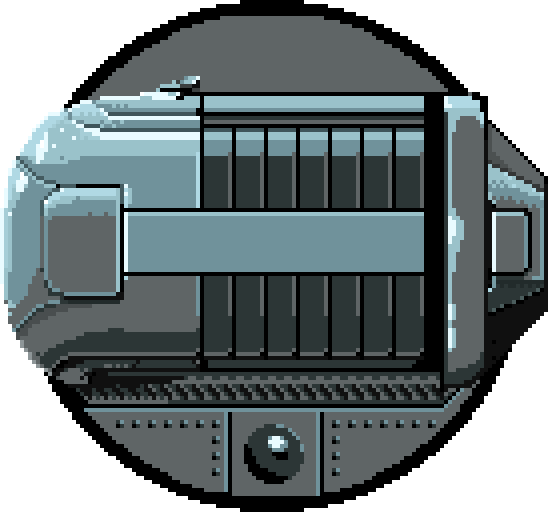
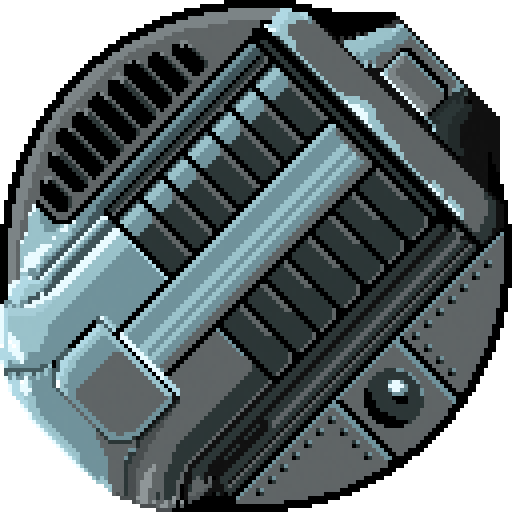
ui updated

diff --git a/index.html b/index.html
@@ -30,11 +30,6 @@
                     <img class="title--graphic" src="assets/da-title.png" alt="Title Title Screen">
                 </div>
 
-                <!-- UI Buttons -->
-                <button data-game-method="reinit" class="game-ui--button game-ui--button__top game-ui--button__left">♻</button>
-                <button data-modal-toggler="help" class="game-ui--button game-ui--button__bottom game-ui--button__left">❓</button>
-                <button data-modal-toggler="options" class="game-ui--button game-ui--button__bottom game-ui--button__right">⚙</button>
-
                 <!-- Help Modal -->
                 <div data-modal="help" class="modal--container">
                     <button class="modal--close"></button>
@@ -68,7 +63,7 @@
         </div>
 
         <!-- App UI Overlay -->
-        <div class="app-ui--overlay">
+        <div class="app-ui--overlay pointer-events-none">
             <div class="game-ui--container">
 
                 <!-- Score UI -->
@@ -78,24 +73,13 @@
                     <div class="game-ui--high-score"></div>
                 </div>
 
-                <!-- Buttons -->
-                <div class="ui" style="display: none;">
-                    <div class="canvas-ui">
-                        <div class="help-button button">❓</div>
-                        <div class="help-window modal" style="display: none">
-                            <div class="help-close button modal--close">close</div>
-                            Repair the turret, dodge flak!<br />
-                            Your score is how many wall segments you've repaired. <br />Press
-                            the letter that corresponds to the wall segment to move your player
-                            there.<br />Refresh to restart!<br />
-                            Thanks for playing! –Team Tunk
-                        </div>
-                        <div class="options-button">⚙</div>
-                        <div class="restart-button button">♻</div>
-                    </div>
-                </div>
+
 
             </div>
+            <!-- UI Buttons -->
+            <button data-game-method="reinit" class="game-ui--button game-ui--button__top game-ui--button__left">♻</button>
+            <button data-modal-toggler="help" class="game-ui--button game-ui--button__bottom game-ui--button__left">❓</button>
+            <button data-modal-toggler="options" class="game-ui--button game-ui--button__bottom game-ui--button__right">⚙</button>
         </div>
         <script src="https://cdnjs.cloudflare.com/ajax/libs/pixi.js/5.1.3/pixi.min.js"></script>
         <script src="js/keyboard-observer.js"></script>

diff --git a/js/cannon.js b/js/cannon.js
@@ -2,8 +2,8 @@ class Cannon {
     constructor(game) {
         this.game = game;
         this.container = new PIXI.Container();
-        this.cannonTargetX = 120;
-        this.cannonTargetY = -10;
+        this.cannonTargetX = 200;
+        this.cannonTargetY = -120;
         this.nextShot = 4;
         this.init();
     }
@@ -11,23 +11,23 @@ class Cannon {
     init() {
         this.game.graphics.cannonBarrelSmoke.anchor.set(0, 0.5);
         this.game.graphics.cannonBarrelSmoke.x = this.cannonTargetX + 0;
-        this.game.graphics.cannonBarrelSmoke.y = this.cannonTargetY - 0;
+        this.game.graphics.cannonBarrelSmoke.y = this.cannonTargetY - -120;
         this.game.graphics.cannonBarrelSmoke.rotation = 0 * Math.PI;
         this.game.graphics.cannonBarrelSmoke.scale.set(0.9);
         this.game.graphics.cannonBarrelSmoke.blendMode =
             PIXI.BLEND_MODES.OVERLAY;
 
         this.game.graphics.cannonSmoke.anchor.set(0, 0.5);
-        this.game.graphics.cannonSmoke.x = this.cannonTargetX + 370;
-        this.game.graphics.cannonSmoke.y = this.cannonTargetY - 10;
+        this.game.graphics.cannonSmoke.x = this.cannonTargetX + 250;
+        this.game.graphics.cannonSmoke.y = this.cannonTargetY + 105;
         this.game.graphics.cannonSmoke.rotation = 0 * Math.PI;
         this.game.graphics.cannonSmoke.scale.set(2);
         this.game.graphics.cannonSmoke.blendMode = PIXI.BLEND_MODES.OVERLAY;
         this.game.graphics.cannonSmoke.alpha = 0;
 
         this.game.graphics.cannonFire.anchor.set(0, 0.5);
-        this.game.graphics.cannonFire.x = this.cannonTargetX + 370;
-        this.game.graphics.cannonFire.y = this.cannonTargetY - 0;
+        this.game.graphics.cannonFire.x = this.cannonTargetX + 250;
+        this.game.graphics.cannonFire.y = this.cannonTargetY + 105;
         this.game.graphics.cannonFire.rotation = 0 * Math.PI;
         this.game.graphics.cannonFire.alpha = 0;
 
@@ -35,7 +35,7 @@ class Cannon {
         this.game.graphics.barrel.x = this.cannonTargetX;
         this.game.graphics.barrel.y = this.cannonTargetY;
         this.game.graphics.barrel.scale.set(0.85);
-        this.game.graphics.barrel.rotation = 0 * Math.PI;
+        this.game.graphics.barrel.rotation = 0.25 * Math.PI;
     }
 
     update(delta) {

diff --git a/css/game-ui.css b/css/game-ui.css
@@ -27,6 +27,7 @@
     margin: 0;
     background: transparent;
     border: 0;
+    pointer-events: all;
 }
 .game-ui--button:hover,
 .game-ui--button:focus {
@@ -89,19 +90,19 @@
 /* Button Positioning */
 .game-ui--button__top {
     position: absolute;
-    top: 1vmin;
+    top: calc(50% - 45vmin + 1vmin);
 }
 .game-ui--button__right {
     position: absolute;
-    right: 1vmin;
+    right: calc(50% - 45vmin + 1vmin);
 }
 .game-ui--button__bottom {
     position: absolute;
-    bottom: calc(1vmin + 3px);
+    bottom: calc(50% - 45vmin + 1vmin + 3px);
 }
 .game-ui--button__left {
     position: absolute;
-    left: 1vmin;
+    left: calc(50% - 45vmin + 1vmin);
 }
 
 .game-ui--score-wrapper {
@@ -109,8 +110,8 @@
     align-items: center;
     justify-content: center;
     position: absolute;
-    bottom: -2.3vmin;
-    height: 10vmin;
+    top: calc(50% + 45vmin - 15vmin + 0.65vmin);
+    height: 15vmin;
     left: 50%;
     transform: translateX(-50%) skewX(0) rotate(0deg);
     background-color: #101414;

diff --git a/css/style.css b/css/style.css
@@ -4,6 +4,7 @@
     font-family: Arial, 'Helvetica Neue', Helvetica, sans-serif;
     font-size: 24px;
     color: white;
+    box-sizing: border-box;
 }
 body,
 html {
@@ -21,6 +22,9 @@ body {
     background-size: cover;
     background-position: center;
 }
+.pointer-events-none {
+    pointer-events: none;
+}
 canvas,
 .canvas--scanlines {
     width: 90vmin;
@@ -33,6 +37,7 @@ canvas,
     border: 1vmin solid #000033;
     background-color: #ccc;
     box-shadow: 0 0 5vmin 3vmin rgba(238, 233, 213, 0.75);
+    pointer-events: none;
 }
 .canvas-ui {
     z-index: 100;
@@ -159,6 +164,7 @@ canvas,
     position: absolute;
     z-index: 900;
     background-color: transparent;
+    pointer-events: none;
 }
 .canvas--scanlines::after {
     pointer-events: none;

diff --git a/js/turret.js b/js/turret.js
@@ -15,6 +15,7 @@ class Turret {
         this.container.rotation = -0.25 * Math.PI;
 
         this.game.graphics.turretExterior.anchor.set(0.5);
+        this.game.graphics.turretExterior.rotation = 0.25 * Math.PI;
 
         this.game.graphics.turretFloor.anchor.set(0.5);
         this.game.graphics.turretFloor.rotation = 0.25 * Math.PI;
@@ -22,7 +23,6 @@ class Turret {
 
         this.game.graphics.turretCeiling.x = this.game.app.renderer.width / 2;
         this.game.graphics.turretCeiling.y = this.game.app.renderer.height / 2;
-        this.game.graphics.turretCeiling.rotation = -0.25 * Math.PI;
         this.game.graphics.turretCeiling.anchor.set(0.5);
         this.game.graphics.turretCeiling.alpha = 1;
     }

diff --git a/css/modal.css b/css/modal.css
@@ -7,8 +7,8 @@
     z-index: 10;
     top: 0;
     left: 0;
-    right: 0;
-    bottom: 0;
+    width: 90vmin;
+    height: 90vmin;
     border: 1vmin solid rgb(0, 0, 0);
     border-radius: 2vmin;
     margin: -1vmin;
@@ -16,7 +16,7 @@
     background-blend-mode: color;
     justify-content: center;
     align-items: center;
-    padding: 2vmin;
+    padding: 12vmin;
 }
 .modal--container__visible {
     display: flex;
@@ -45,8 +45,8 @@
     justify-content: center;
     align-items: center;
     line-height: 0;
-    top: 1vmin;
-    right: 1vmin;
+    top: 12vmin;
+    right: 12vmin;
     font-size: 8vmin;
     width: 6vmin;
     height: 6vmin;

diff --git a/css/app-ui.css b/css/app-ui.css
@@ -2,12 +2,18 @@
     pointer-events: none;
     content: '';
     display: block;
-    background-image: url('/assets/overlay-console.png');
+    background-image: url('/assets/overlay-console-vertical.png');
     background-size: cover;
     background-position: center;
     height: 100%;
     z-index: 1000;
     position: relative;
+    pointer-events: none;
+}
+@media (min-aspect-ratio: 1/1) {
+    .app-ui--container::after {
+        background-image: url('/assets/overlay-console-horizontal.png');
+    }
 }
 
 .app-ui--overlay {

diff --git a/js/game.js b/js/game.js
@@ -108,7 +108,8 @@ class Game {
         if (!this.reduceMotion) {
             this.graphics.background.rotation = this.turretBodyRotation;
         } else {
-            this.graphics.turretExterior.rotation = this.turretBodyRotation;
+            this.graphics.turretExterior.rotation =
+                this.turretBodyRotation + Math.PI * 0.25;
             this.cannon.container.rotation = this.turretBodyRotation;
         }
 
